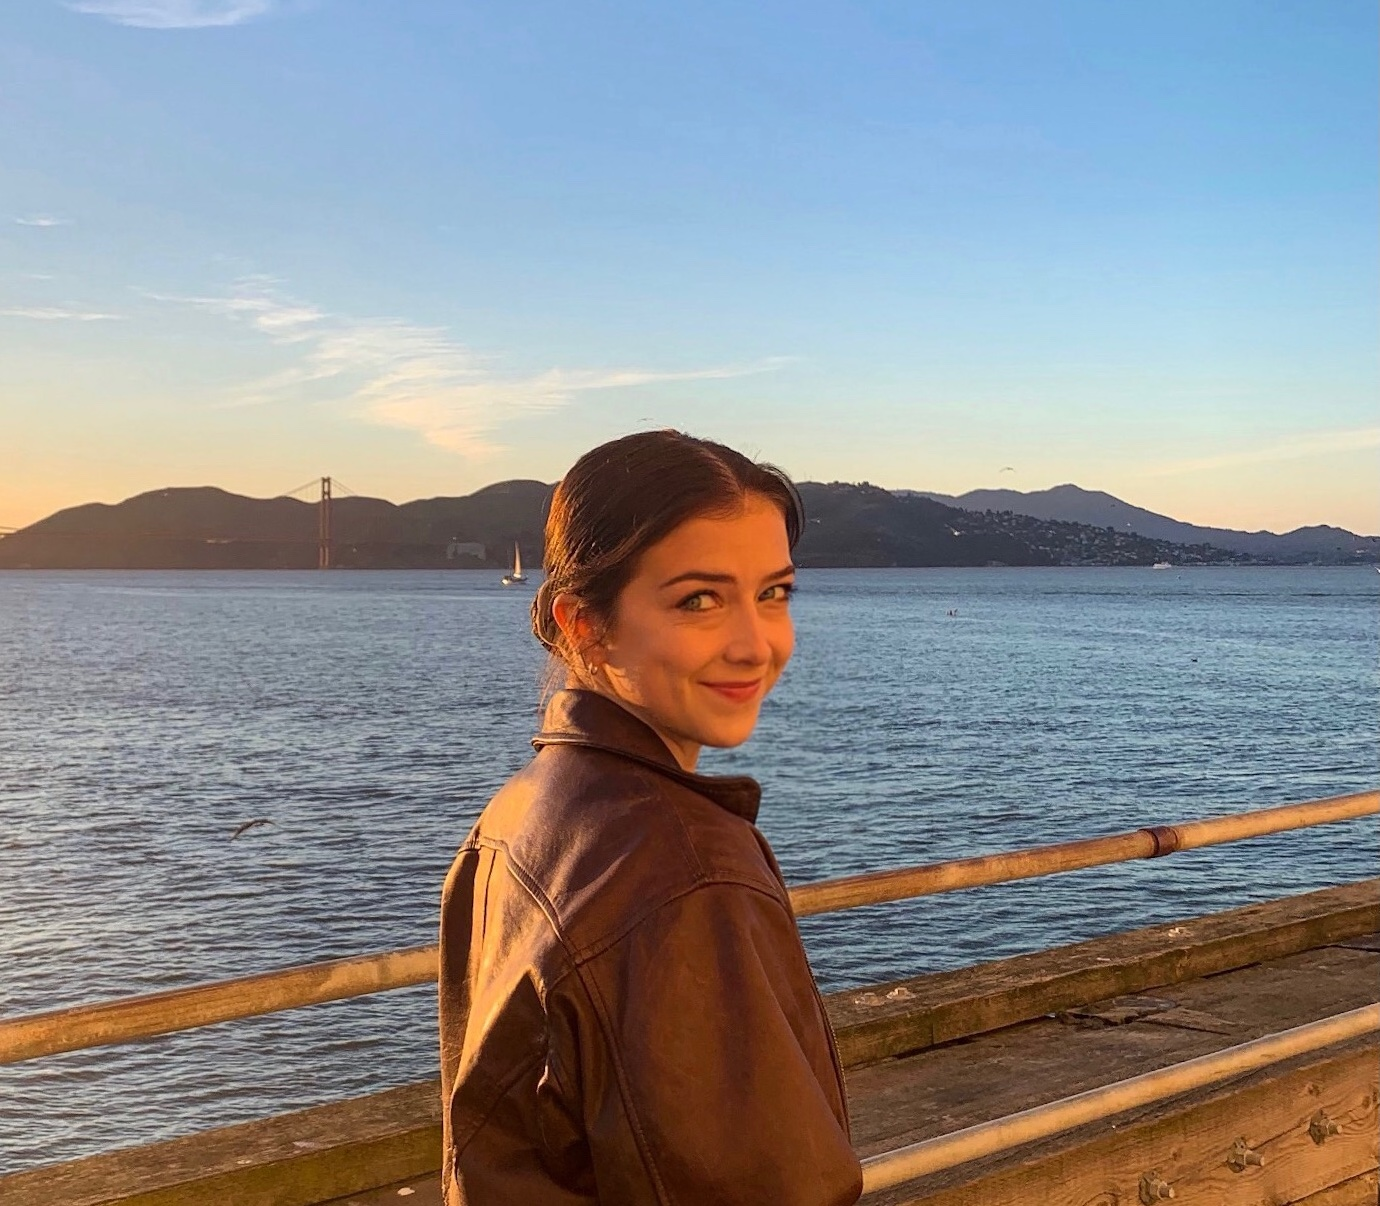
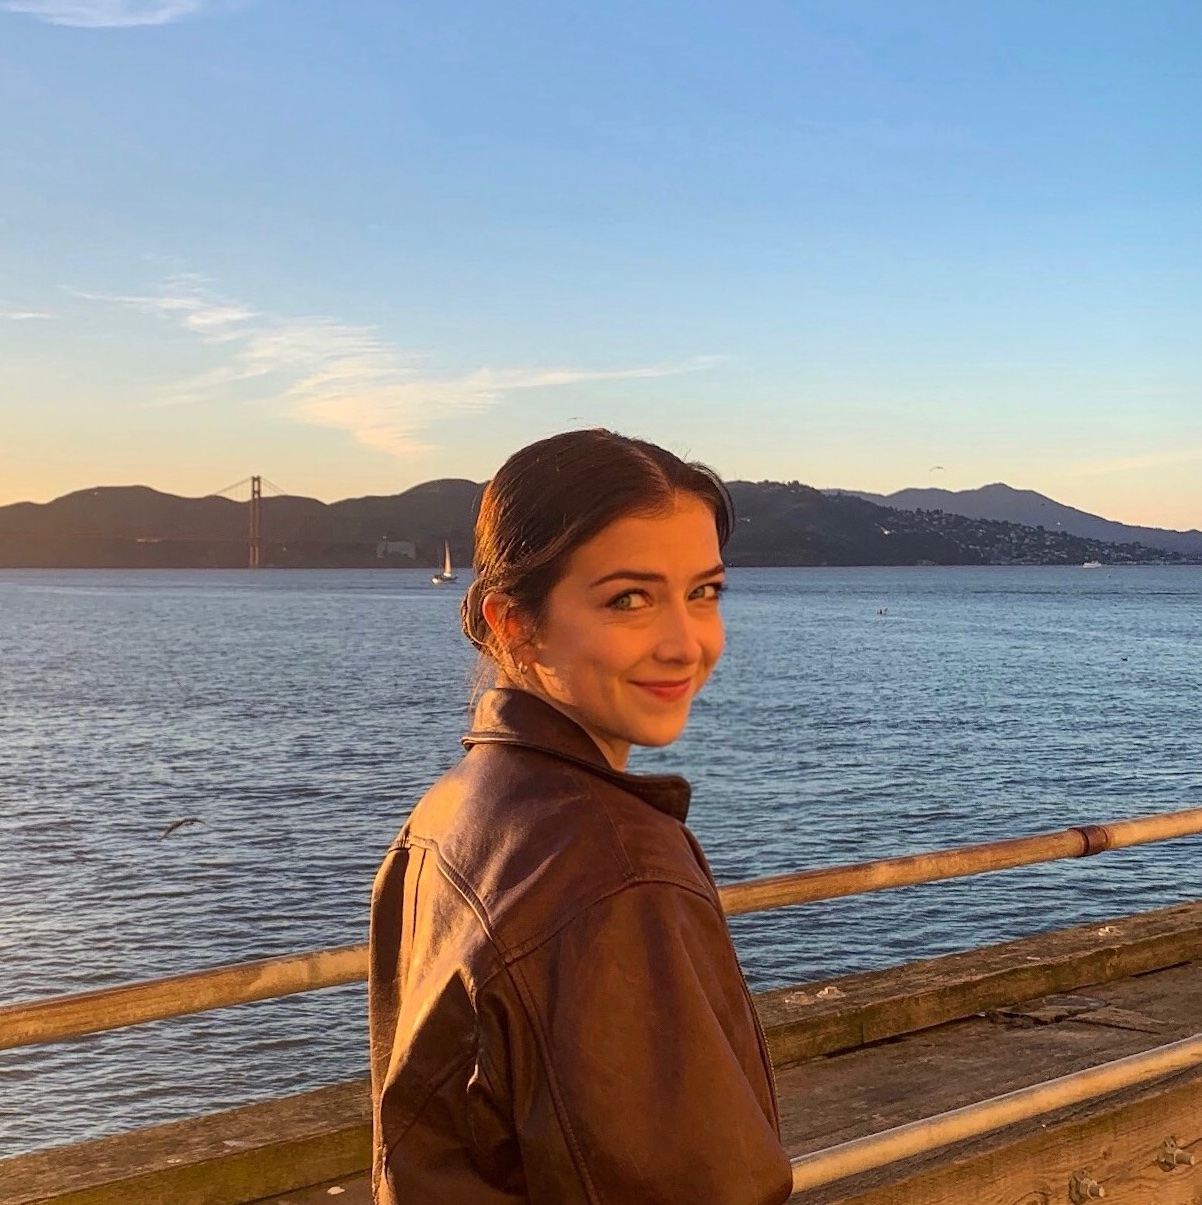
updates about and image sizes

diff --git a/pages/about.js b/pages/about.js
@@ -13,10 +13,16 @@ export default function AboutPage() {
         <h1 className="pt-10 text-5xl text-center text-gray-700">ABOUT ME</h1>
         <h3 className="pt-10 text-xl text-center text-gray-700">INTRO</h3>
         <p className="text-l mx-14 text-gray-900">
-          Hi, I'm Hawley. I am a Data Analyst and Artist, currently living in
+          Hi, I'm Hawley. I am an Analyst and Artist, currently living in
           New York. I love learning new things and find fulfillment in creating
-          with what I've learned. Please note, this page is currently under construction
-          and will soon contain even more about who I am.
+          with what I've learned. 
+        </p>
+        <h3 className="pt-10 text-xl text-center text-gray-700">CURRENTLY</h3>
+        <p className="text-l mx-14 text-gray-900">
+          Currently, I work as a Data Analyst at Arthena where my promary responsibilities 
+          include managing and maintaining data integrity within internal databases
+          and analyzing market data to create investor reports on market trends and 
+          inform product decisions.
         </p>
         <h3 className="pt-6 text-xl text-center text-gray-700">EDUCATION</h3>
         <p className="text-l mx-14 text-gray-900"> 
@@ -32,7 +38,8 @@ export default function AboutPage() {
         <h3 className="pt-6 text-xl text-center text-gray-700">INTERESTS</h3>
         <p className="text-l mx-14 text-gray-900"> 
           There are a lot of things I like to fill my time with. Some of these are the following: yoga, 
-          running, knitting, reading, painting, baking, biking, skiing, rollerblading, music, and working on this website.
+          running, knitting, reading, painting, baking, biking, skiing, rollerblading, and listening to music. 
+          I'd like to get better at rock climbing and think it would be really cool to learn how to make rugs.
         </p>
        </div>
     </div>

diff --git a/pages/music.js b/pages/music.js
@@ -2,6 +2,22 @@ import Nav from '../components/nav';
 
 const playlists = [
   {
+    title: 'evergreen',
+    src: 'https://open.spotify.com/embed/playlist/0oPXGmDixzBPiwb2icGcjD',
+  },
+  {
+    title: 'took a fat L(earning experience)',
+    src: 'https://open.spotify.com/embed/playlist/4D0ra63q1s3g6MBp4r94By'
+  },
+  {
+    title: 'clementine',
+    src: 'https://open.spotify.com/embed/playlist/6S79VsiQkS96T1kpgvnaiZ'
+  },
+  {
+    title: 'it could be worse, you could have scurvy',
+    src: 'https://open.spotify.com/embed/playlist/07aGGBr2tBXK7C9eHzc77F'
+  },
+  {
     title: 'kitchen limbo',
     src: 'https://open.spotify.com/embed/playlist/322AJJWNX7rBufEIboSVQq',
   },
